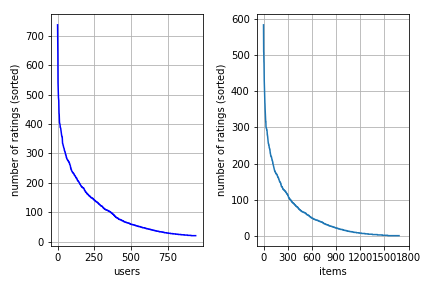
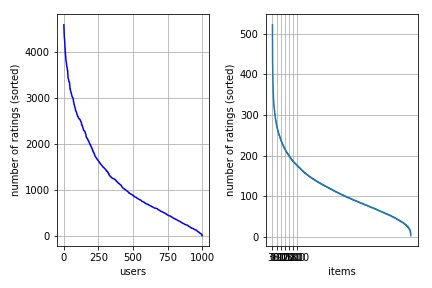
Working on lab

Changed region(s): [[0.0602, 0.0312, 0.9931, 0.9688], [0.2708, 0.9375, 0.331, 0.9688]]

diff --git a/projects/project2/project_recommender_system/src/parsers.py b/projects/project2/project_recommender_system/src/parsers.py
@@ -1,4 +1,4 @@
-import numpy as np
+import scipy.sparse as sp
 import pickle
 import os
 import csv
@@ -15,16 +15,9 @@ def load_data():
     print("PARSING TRAIN")
     matrix_train = load_pickle_data("matrix_train")
     if matrix_train is None:
-        matrix_train = load_matrix_from_csv("{}/data_train.csv".format(DATA_DIR))
+        matrix_train = load_csv_data("{}/data_train.csv".format(DATA_DIR))
         dump_pickle_data(matrix_train, "matrix_train")
-
-    print("PARSING LABELS")
-    requested_labels = load_pickle_data("requested_labels")
-    # if requested_labels is None:
-    #     requested_labels = load_labels_from_csv("{}/sample_submission.csv".format(DATA_DIR))
-    #     dump_pickle_data(requested_labels, "requested_data")
-
-    return matrix_train, requested_labels
+    return matrix_train
 
 
 def load_pickle_data(filename):
@@ -57,32 +50,6 @@ def dump_pickle_data(obj, filename):
     f.close()
 
 
-def load_matrix_from_csv(data_path):
-    print("LOADING CSV FILE FROM {}".format(data_path))
-    data = np.genfromtxt(data_path, delimiter=",", skip_header=1, dtype=str)
-    print("tmp")
-
-
-def load_csv_data(data_path):
-    """
-    Loads data and returns y (class labels), tX (features) and ids (event ids)
-
-    :param data_path: Data path of the .csv file
-    :return: Ys, input_data and ids loaded from those files
-    """
-    print("LOADING CSV FILE FROM {}".format(data_path))
-    y = np.genfromtxt(data_path, delimiter=",", skip_header=1, dtype=str, usecols=[1])
-    x = np.genfromtxt(data_path, delimiter=",", skip_header=1)
-    ids = x[:, 0].astype(np.int)
-    input_data = x[:, 2:]
-
-    # convert class labels from strings to binary (-1,1)
-    yb = np.ones(len(y))
-    yb[np.where(y == 'b')] = -1
-
-    return yb, input_data, ids
-
-
 def create_csv_submission(ids, y_pred, name):
     """
     Creates an output file in csv format for submission to kaggle
@@ -96,3 +63,44 @@ def create_csv_submission(ids, y_pred, name):
         writer.writeheader()
         for r1, r2 in zip(ids, y_pred):
             writer.writerow({'Id': int(r1), 'Prediction': int(r2)})
+
+
+def read_txt(path):
+    """read text file from path."""
+    with open(path, "r") as f:
+        return f.read().splitlines()
+
+
+def load_csv_data(path_dataset):
+    """Load data in text format, one rating per line, as in the kaggle competition."""
+    data = read_txt(path_dataset)[1:]
+    return preprocess_data(data)
+
+
+def preprocess_data(data):
+    """preprocessing the text data, conversion to numerical array format."""
+
+    def deal_line(line):
+        pos, rating = line.split(',')
+        row, col = pos.split("_")
+        row = row.replace("r", "")
+        col = col.replace("c", "")
+        return int(row), int(col), float(rating)
+
+    def statistics(data):
+        row = set([line[0] for line in data])
+        col = set([line[1] for line in data])
+        return min(row), max(row), min(col), max(col)
+
+    # parse each line
+    data = [deal_line(line) for line in data]
+
+    # do statistics on the dataset.
+    min_row, max_row, min_col, max_col = statistics(data)
+    print("number of items: {}, number of users: {}".format(max_row, max_col))
+
+    # build rating matrix.
+    ratings = sp.lil_matrix((max_row, max_col))
+    for row, col, rating in data:
+        ratings[row - 1, col - 1] = rating
+    return ratings

diff --git a/projects/project2/project_recommender_system/src/helpers.py b/projects/project2/project_recommender_system/src/helpers.py
@@ -1,0 +1,58 @@
+import numpy as np
+import scipy.sparse as sp
+
+
+def split_data(ratings, num_items_per_user, num_users_per_item, min_num_ratings, p_test=0.1):
+    """split the ratings to training data and test data.
+    Args:
+        min_num_ratings:
+            all users and items we keep must have at least min_num_ratings per user and per item.
+    """
+    # set seed
+    np.random.seed(988)
+
+    # select user and item based on the condition.
+    valid_users = np.where(num_items_per_user >= min_num_ratings)[0]
+    valid_items = np.where(num_users_per_item >= min_num_ratings)[0]
+    valid_ratings = ratings[valid_items, :][:, valid_users]
+
+    # init
+    num_rows, num_cols = valid_ratings.shape
+    train = sp.lil_matrix((num_rows, num_cols))
+    test = sp.lil_matrix((num_rows, num_cols))
+
+    print("the shape of original ratings. (# of row, # of col): {}".format(ratings.shape))
+    print("the shape of valid ratings. (# of row, # of col): {}".format((num_rows, num_cols)))
+
+    nz_items, nz_users = valid_ratings.nonzero()
+
+    # split the data
+    for user in set(nz_users):
+        # randomly select a subset of ratings
+        row, col = valid_ratings[:, user].nonzero()
+        selects = np.random.choice(row, size=int(len(row) * p_test))
+        residual = list(set(row) - set(selects))
+
+        # add to train set
+        train[residual, user] = valid_ratings[residual, user]
+
+        # add to test set
+        test[selects, user] = valid_ratings[selects, user]
+
+    print("Total number of nonzero elements in origial data:{v}".format(v=ratings.nnz))
+    print("Total number of nonzero elements in train data:{v}".format(v=train.nnz))
+    print("Total number of nonzero elements in test data:{v}".format(v=test.nnz))
+    return valid_ratings, train, test
+
+
+def plot_raw_data(ratings):
+    """plot the statistics result on raw rating data."""
+    num_items_per_user = np.array((ratings != 0).sum(axis=0)).flatten()
+    num_users_per_item = np.array((ratings != 0).sum(axis=1).T).flatten()
+    return num_items_per_user, num_users_per_item
+
+
+def calculate_mse(real_label, prediction):
+    """calculate MSE."""
+    t = real_label - prediction
+    return 1.0 * t.dot(t.T)

diff --git a/projects/project2/project_recommender_system/src/run.py b/projects/project2/project_recommender_system/src/run.py
@@ -1,8 +1,22 @@
+from sklearn.decomposition import NMF
+
+from helpers import split_data, calculate_mse, plot_raw_data
 from parsers import load_data
+
+NUM_ITEMS_PER_USER = 1
+NUM_USERS_PER_ITEM = 1
+MIN_NUM_RATINGS = 10
 
 
 def main():
     data = load_data()
+    num_items_per_user, num_users_per_item = plot_raw_data(data)
+    valid_data, train, test = split_data(data, NUM_ITEMS_PER_USER, NUM_USERS_PER_ITEM, MIN_NUM_RATINGS,
+                                         p_test=0.1)
+    model = NMF(n_components=10, init='random', random_state=0)
+    W = model.fit_transform(train)
+    Z = model.components_
+    print(calculate_mse(test, W.dot(Z)))
 
 
 if __name__ == '__main__':
